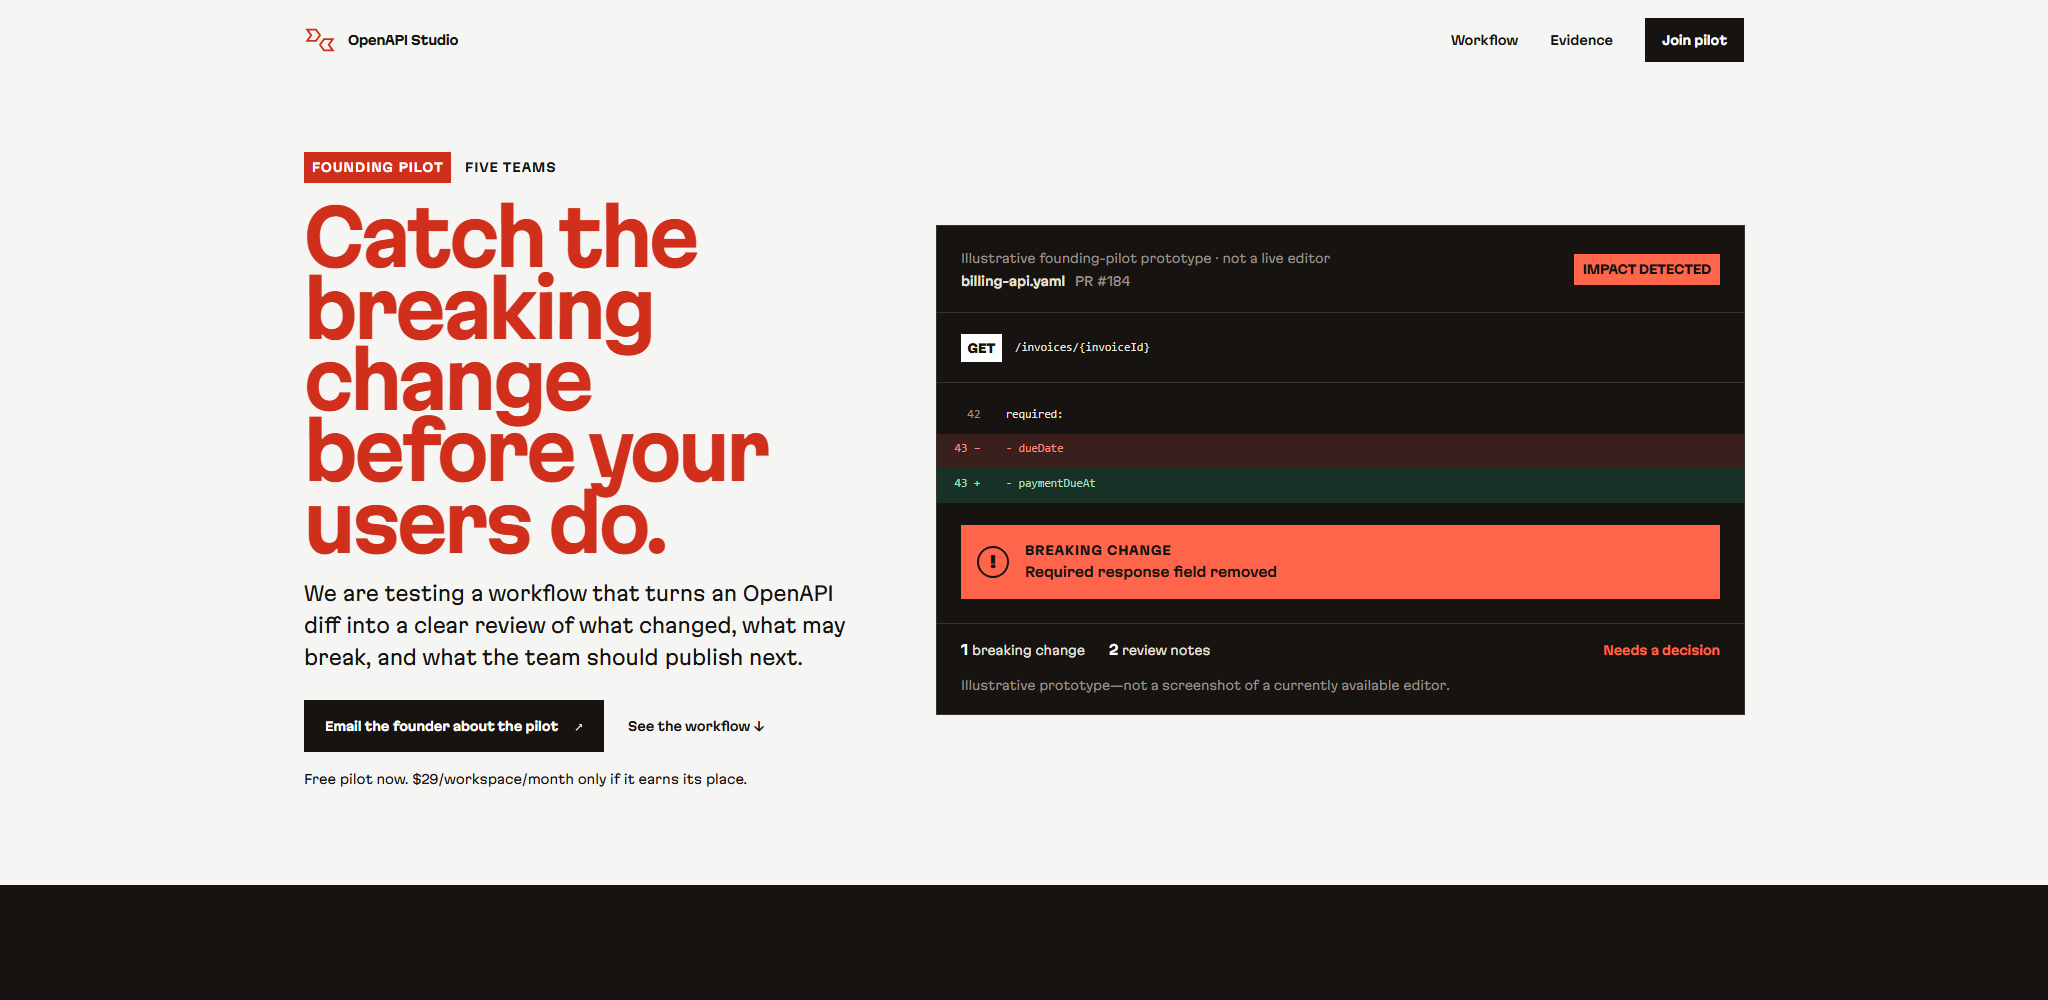
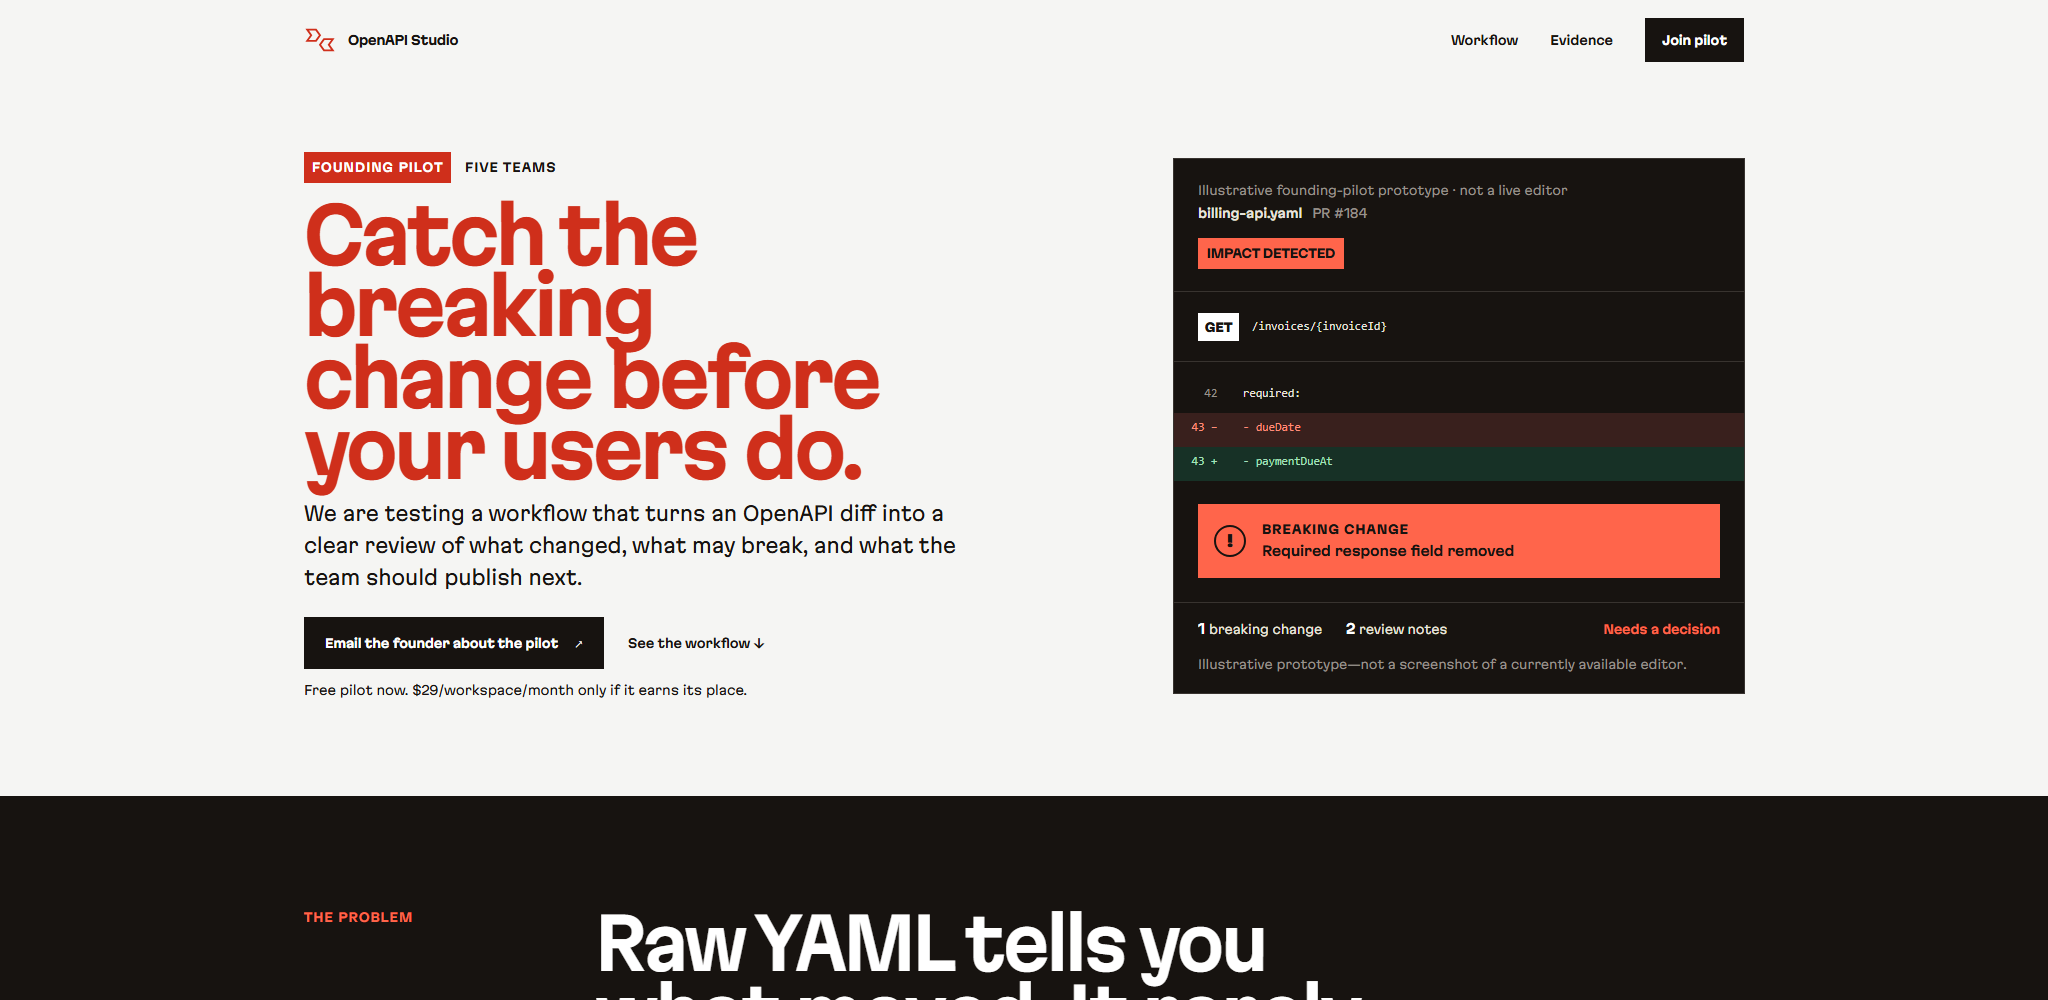
refactor: rebalance hero to seven five grid

Changed region(s): [[0.0, 0.155, 1.0, 1.0], [0.2812, 0.217, 0.3438, 0.279]]

diff --git a/src/styles.css b/src/styles.css
@@ -149,7 +149,7 @@ a:focus-visible {
 
 .hero {
   display: grid;
-  grid-template-columns: minmax(0, 0.82fr) minmax(32rem, 1.18fr);
+  grid-template-columns: minmax(0, 7fr) minmax(0, 5fr);
   gap: clamp(2.5rem, 4vw, 4.5rem);
   align-items: center;
   padding-block: clamp(2.5rem, 5vw, 4.5rem) clamp(4rem, 7vw, 6rem);
@@ -158,7 +158,7 @@ a:focus-visible {
   display: flex;
   flex-direction: column;
   align-items: flex-start;
-  gap: 1.15rem;
+  gap: 0;
 }
 .eyebrow,
 .section-label {
@@ -186,8 +186,12 @@ h1 {
   line-height: 0.94;
   color: #cf2f1b;
 }
+.hero-copy h1 {
+  margin-top: 1rem;
+}
 .hero-lead {
   max-width: 42rem;
+  margin-top: 0.75rem;
   font-size: clamp(1rem, 1.35vw, 1.22rem);
   font-stretch: 96%;
   line-height: 1.65;
@@ -197,9 +201,10 @@ h1 {
   flex-wrap: wrap;
   align-items: center;
   gap: 1rem 1.5rem;
-  margin-top: 0.5rem;
+  margin-top: 1.5rem;
 }
 .availability {
+  margin-top: 0.75rem;
   font-size: 0.78rem;
   line-height: 1.5;
 }
@@ -211,6 +216,7 @@ h1 {
 }
 .artifact-top {
   display: flex;
+  flex-wrap: wrap;
   justify-content: space-between;
   gap: 1rem;
   padding: 1.4rem 1.5rem;

diff --git a/.tasks/2026-07-18-TSK-3-landing-redesign-TASKS.md b/.tasks/2026-07-18-TSK-3-landing-redesign-TASKS.md
@@ -23,7 +23,7 @@
 - **Dependencies:** TG-002
 - **Status:** IN_PROGRESS
 - **Acceptance:** REQ-008 and REQ-009 validation, independent review, preview acceptance, and CI pass.
-- **Evidence:** The third visual direction is implemented. After product-owner review exposed an oversized desktop fold, the type scale, hero spacing, grid balance, and downstream display sizes were tightened. Exact fold evidence at `.docs/TSK-3-fold-2048x1000.png` keeps the CTA and prototype visible without scrolling; full-page desktop and mobile evidence is also current. Accessibility, truthfulness, no-JavaScript, and narrow-screen checks pass. Updated preview approval remains.
+- **Evidence:** The third visual direction is implemented. After product-owner review exposed an oversized desktop fold, the type scale, hero spacing, and downstream display sizes were tightened. The hero now uses the requested literal 7:5 copy-to-artifact grid with deliberate copy grouping and a stable single-column mobile fallback. Exact fold evidence at `.docs/TSK-3-fold-2048x1000.png` keeps the CTA and prototype visible without scrolling; full-page desktop and mobile evidence is also current. Accessibility, truthfulness, no-JavaScript, and narrow-screen checks pass. Updated preview approval remains.
 
 ## Ready Rule
 

diff --git a/DESIGN.md b/DESIGN.md
@@ -46,6 +46,7 @@ Stay structurally flat: square controls, hard rules, no ornamental radius, gradi
 ### Composition Gates
 
 - Desktop H1 ceiling: `4.75rem`; mobile H1 ceiling: `4rem`; later display headings: `4.4rem` maximum.
+- The desktop hero uses a literal `7:5` copy-to-artifact grid and collapses to one column at `64rem`.
 - The 1440×900 and 2048×1000 folds must include the primary CTA, price condition, and complete review artifact without scrolling.
 - Header plus hero may not exceed the initial viewport height at supported desktop sizes.
 - Consequential copy—prototype status, pricing terms, privacy guidance, and artifact captions—never renders below `0.75rem`.